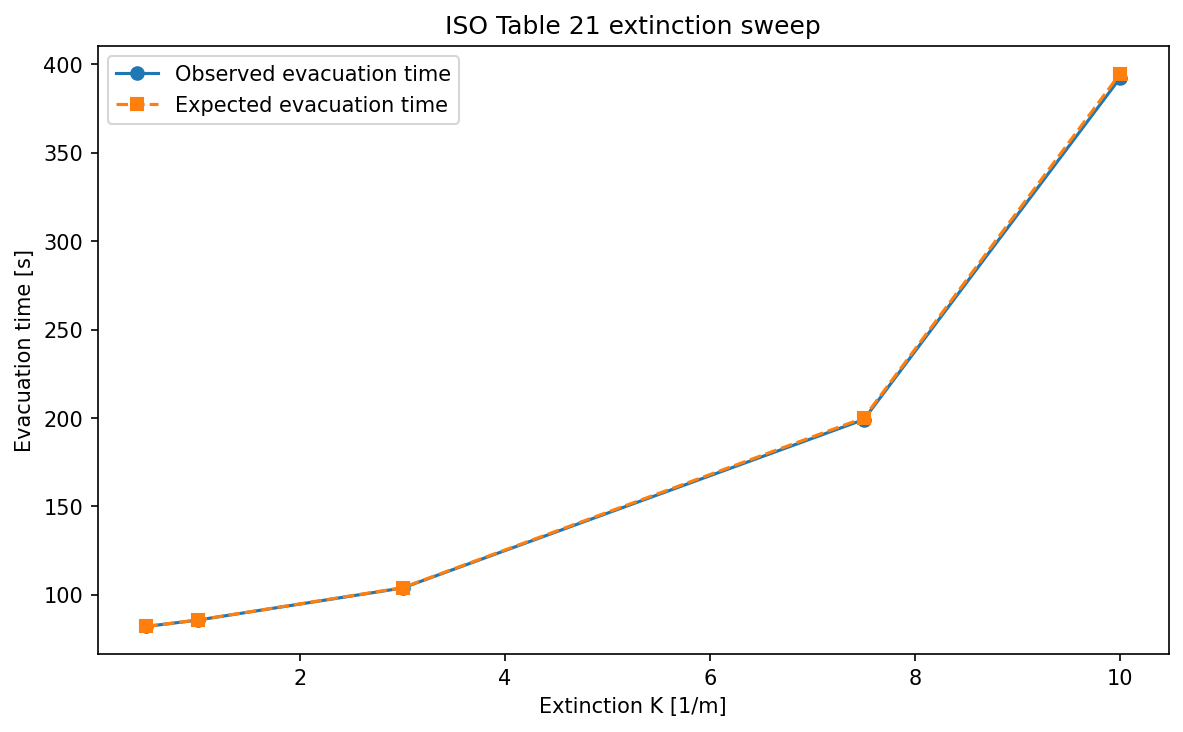
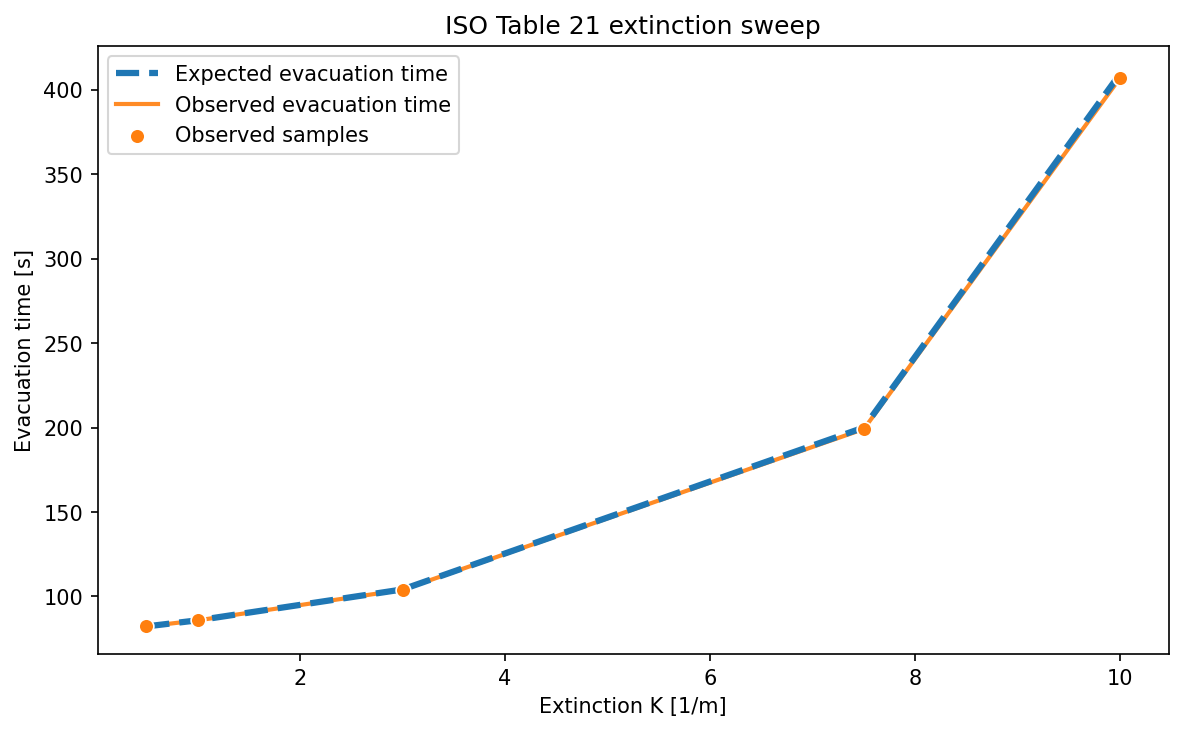
add tab 22 ISO

diff --git a/tests/test_fed.py b/tests/test_fed.py
@@ -4,12 +4,15 @@ from pathlib import Path
 import matplotlib.pyplot as plt
 import numpy as np
 import pytest
-from fdsreader import Simulation
+try:
+    from fdsreader import Simulation
+except ModuleNotFoundError:
+    Simulation = None
 
 from src.core.fed import (
-    DefaultFedModel,
-    DefaultFedInputs,
     DefaultFedConfig,
+    DefaultFedInputs,
+    DefaultFedModel,
     FdsFedField,
     accumulate_default_fed,
     default_fed_rate_per_minute,
@@ -19,6 +22,91 @@ from src.core import load_scenario, run_scenario
 
 
 HASPEL_DIR = Path("fds_data/haspel")
+
+
+CONSTANT_EXPOSURE_CASES = {
+    "co_only": DefaultFedInputs(
+        co_volume_fraction_percent=0.10,
+        co2_volume_fraction_percent=0.0,
+        o2_volume_fraction_percent=20.9,
+    ),
+    "co_with_co2": DefaultFedInputs(
+        co_volume_fraction_percent=0.10,
+        co2_volume_fraction_percent=5.0,
+        o2_volume_fraction_percent=20.9,
+    ),
+    "hypoxia_only": DefaultFedInputs(
+        co_volume_fraction_percent=0.0,
+        co2_volume_fraction_percent=0.0,
+        o2_volume_fraction_percent=12.0,
+    ),
+    "combined": DefaultFedInputs(
+        co_volume_fraction_percent=0.10,
+        co2_volume_fraction_percent=5.0,
+        o2_volume_fraction_percent=12.0,
+    ),
+}
+
+
+def _integrate_constant_exposure(
+    inputs: DefaultFedInputs,
+    *,
+    dt_s: float = 1.0,
+    threshold: float = 1.0,
+    max_time_s: float = 7200.0,
+):
+    """Numerically integrate FED under constant exposure using the runtime update rule."""
+    fed = 0.0
+    time_s = 0.0
+    history = [(time_s, fed)]
+    while fed < threshold and time_s < max_time_s:
+        fed = accumulate_default_fed(inputs, duration_s=dt_s, initial_fed=fed)
+        time_s += dt_s
+        history.append((time_s, fed))
+    return history
+
+
+@pytest.mark.parametrize(
+    ("case_name", "inputs"),
+    list(CONSTANT_EXPOSURE_CASES.items()),
+)
+def test_constant_exposure_step_integration_matches_threshold_time(case_name, inputs):
+    del case_name
+    analytic_time_s = time_to_fed_threshold_s(inputs, threshold=1.0)
+    assert analytic_time_s > 0.0
+    assert math.isfinite(analytic_time_s)
+
+    history = _integrate_constant_exposure(
+        inputs,
+        dt_s=1.0,
+        threshold=1.0,
+        max_time_s=max(7200.0, analytic_time_s + 1.0),
+    )
+    times_s = [time_s for time_s, _ in history]
+    fed_values = [fed for _, fed in history]
+
+    assert fed_values == sorted(fed_values)
+    assert times_s[-1] >= analytic_time_s
+    assert times_s[-1] - analytic_time_s <= 1.0
+    assert fed_values[-2] < 1.0 <= fed_values[-1]
+
+
+@pytest.mark.parametrize(
+    ("case_name", "inputs"),
+    list(CONSTANT_EXPOSURE_CASES.items()),
+)
+def test_constant_exposure_accumulation_matches_closed_form(case_name, inputs):
+    del case_name
+    rate_per_min = default_fed_rate_per_minute(inputs)
+    assert rate_per_min > 0.0
+
+    for duration_s in (1.0, 10.0, 60.0, 300.0):
+        expected = rate_per_min * duration_s / 60.0
+        assert accumulate_default_fed(inputs, duration_s=duration_s) == pytest.approx(
+            expected,
+            rel=1e-12,
+            abs=1e-12,
+        )
 
 
 def test_default_fed_rate_is_zero_in_clear_air():
@@ -67,6 +155,34 @@ def test_fds_evac_guide_stationary_fed_cases_reach_fed_one_consistently(
         )
 
 
+def test_co2_accelerates_co_fed_under_constant_exposure():
+    co_only = CONSTANT_EXPOSURE_CASES["co_only"]
+    co_with_co2 = CONSTANT_EXPOSURE_CASES["co_with_co2"]
+
+    assert default_fed_rate_per_minute(co_with_co2) > default_fed_rate_per_minute(co_only)
+    assert time_to_fed_threshold_s(co_with_co2) < time_to_fed_threshold_s(co_only)
+
+
+def test_combined_constant_exposure_reaches_threshold_fastest():
+    combined = CONSTANT_EXPOSURE_CASES["combined"]
+
+    threshold_times = {
+        name: time_to_fed_threshold_s(inputs)
+        for name, inputs in CONSTANT_EXPOSURE_CASES.items()
+    }
+
+    assert threshold_times["co_with_co2"] < threshold_times["co_only"]
+    assert threshold_times["combined"] < threshold_times["co_only"]
+    assert threshold_times["combined"] < threshold_times["co_with_co2"]
+    assert threshold_times["combined"] < threshold_times["hypoxia_only"]
+    assert default_fed_rate_per_minute(combined) == pytest.approx(
+        max(
+            default_fed_rate_per_minute(inputs)
+            for inputs in CONSTANT_EXPOSURE_CASES.values()
+        )
+    )
+
+
 def _find_haspel_peak_co_location():
     sim = Simulation(str(HASPEL_DIR))
     co_slice = sim.slices.filter_by_quantity("CARBON MONOXIDE VOLUME FRACTION")[0]
@@ -91,6 +207,8 @@ def _find_haspel_peak_co_location():
 
 
 def test_fdsreader_stationary_haspel_sampling_drives_positive_fed():
+    if Simulation is None:
+        pytest.skip("fdsreader is not installed in this environment.")
     if not HASPEL_DIR.exists():
         pytest.skip("Local haspel FDS fixture is not available in this checkout.")
 
@@ -112,6 +230,52 @@ def test_fdsreader_stationary_haspel_sampling_drives_positive_fed():
     assert inputs.o2_volume_fraction_percent > 0.0
     assert rate_per_min > 0.0
     assert cumulative > 0.0
+
+
+class _ConstantInputsFedModel:
+    def __init__(self, inputs: DefaultFedInputs):
+        self.inputs = inputs
+
+    def advance(self, time_s, x, y, *, dt_s, current_fed):
+        del time_s, x, y
+        rate_per_min = default_fed_rate_per_minute(self.inputs)
+        updated = accumulate_default_fed(
+            self.inputs,
+            duration_s=dt_s,
+            initial_fed=current_fed,
+        )
+        return self.inputs, rate_per_min, updated
+
+
+def test_iso_table22_stationary_runtime_matches_analytic_threshold_time():
+    inputs = CONSTANT_EXPOSURE_CASES["combined"]
+    analytic_time_s = time_to_fed_threshold_s(inputs, threshold=1.0)
+
+    scenario = load_scenario("assets/ISO-table22")
+    dist_params = scenario.raw["distributions"]["jps-distributions_0"]["parameters"]
+    dist_params["use_premovement"] = False
+    dist_params["v0"] = 0.0
+    scenario.set_max_time(math.ceil(analytic_time_s) + 1.0)
+
+    result = run_scenario(
+        scenario,
+        seed=420,
+        fed_model=_ConstantInputsFedModel(inputs),
+    )
+
+    try:
+        assert result.fed_history
+        crossing_row = next(
+            row for row in result.fed_history if row["fed_cumulative"] >= 1.0
+        )
+        crossing_time_s = float(crossing_row["time_s"])
+
+        assert abs(crossing_time_s - analytic_time_s) <= result.metrics["dt"]
+        assert result.metrics["fed_max"] >= 1.0
+        assert result.metrics["agents_remaining"] == 1
+        assert result.metrics["all_evacuated"] is False
+    finally:
+        result.cleanup()
 
 
 class _ConstantFedModel:
@@ -174,3 +338,47 @@ def test_fds_evac_guide_stationary_cases_produce_plot(tmp_path):
 
     assert output.exists()
     assert output.stat().st_size > 0
+
+
+
+def test_iso_table22_stationary_runtime_produces_plot(tmp_path: Path):
+    inputs = CONSTANT_EXPOSURE_CASES["combined"]
+    analytic_time_s = time_to_fed_threshold_s(inputs, threshold=1.0)
+
+    scenario = load_scenario("assets/ISO-table22")
+    dist_params = scenario.raw["distributions"]["jps-distributions_0"]["parameters"]
+    dist_params["use_premovement"] = False
+    dist_params["v0"] = 0.0
+    scenario.set_max_time(math.ceil(analytic_time_s) + 1.0)
+
+    result = run_scenario(
+        scenario,
+        seed=420,
+        fed_model=_ConstantInputsFedModel(inputs),
+    )
+
+    try:
+        runtime_times = [row["time_s"] for row in result.fed_history]
+        runtime_fed = [row["fed_cumulative"] for row in result.fed_history]
+        theory_times = np.linspace(0.0, runtime_times[-1], 400)
+        theory_fed = [
+            accumulate_default_fed(inputs, duration_s=float(t)) for t in theory_times
+        ]
+
+        output = tmp_path / "iso-table22-stationary-fed.png"
+        fig, ax = plt.subplots(figsize=(8, 5))
+        ax.plot(theory_times, theory_fed, linewidth=2, label="Analytical FED")
+        ax.step(runtime_times, runtime_fed, where="post", linewidth=2, label="Runtime FED")
+        ax.axhline(1.0, color="black", linestyle=":", linewidth=1.5, label="FED = 1")
+        ax.set_xlabel("Time [s]")
+        ax.set_ylabel("FED Index [-]")
+        ax.set_title("ISO Table 22 stationary FED verification")
+        ax.legend(loc="best")
+        fig.tight_layout()
+        fig.savefig(output, dpi=150, bbox_inches="tight")
+        plt.close(fig)
+
+        assert output.exists()
+        assert output.stat().st_size > 0
+    finally:
+        result.cleanup()

diff --git a/scripts/generate_iso_table21_sweep.py b/scripts/generate_iso_table21_sweep.py
@@ -70,19 +70,38 @@ def main() -> int:
             smoke.cleanup()
             baseline.cleanup()
 
+    x_values = [item["extinction_per_m"] for item in results]
+    observed_times = [item["observed_time_s"] for item in results]
+    expected_times = [item["expected_time_s"] for item in results]
+
     fig, ax = plt.subplots(figsize=(8, 5))
     ax.plot(
-        [item["extinction_per_m"] for item in results],
-        [item["observed_time_s"] for item in results],
-        marker="o",
-        label="Observed evacuation time",
+        x_values,
+        expected_times,
+        color="tab:blue",
+        linestyle="--",
+        linewidth=3,
+        label="Expected evacuation time",
+        zorder=3,
     )
     ax.plot(
-        [item["extinction_per_m"] for item in results],
-        [item["expected_time_s"] for item in results],
-        marker="s",
-        linestyle="--",
-        label="Expected evacuation time",
+        x_values,
+        observed_times,
+        color="tab:orange",
+        linewidth=2,
+        alpha=0.9,
+        label="Observed evacuation time",
+        zorder=2,
+    )
+    ax.scatter(
+        x_values,
+        observed_times,
+        color="tab:orange",
+        edgecolors="white",
+        linewidths=0.8,
+        s=50,
+        label="Observed samples",
+        zorder=4,
     )
     ax.set_xlabel("Extinction K [1/m]")
     ax.set_ylabel("Evacuation time [s]")

diff --git a/README.md b/README.md
@@ -107,6 +107,8 @@ Generate a stable ISO Table 21 sweep artifact under `artifacts/`:
 uv run python scripts/generate_iso_table21_sweep.py
 ```
 
+Figure: ![ISO Table 21 sweep](artifacts/iso-table21-sweep.png)
+
 Generate the FDS+Evac smoke-density vs speed verification plot:
 
 ```bash
@@ -126,6 +128,22 @@ What is implemented now:
 - `O2` hypoxia
 
 This default pathway is read from FDS slice outputs through `fdsreader`.
+
+Verification status on this branch:
+
+- equation-level constant-exposure checks for `CO`, `CO2`, and `O2` are covered in [tests/test_fed.py](tests/test_fed.py)
+- an ISO Table 22 style stationary benchmark is covered with `assets/ISO-table22`, using one fixed occupant in a room and comparing the runtime `FED=1` crossing time against the analytical reference for the implemented default pathway
+- this verification currently covers only the implemented default FED pathway (`CO`, `CO2`, `O2`), not the broader set of toxic/thermal terms mentioned in ISO Table 22
+
+A plot is not required for the Table 22 pass/fail check. The verification criterion is agreement in time to reach `FED = 1`. We still generate a stable artifact because it improves inspection and reporting.
+
+Generate the ISO Table 22 stationary FED verification figure:
+
+```bash
+uv run python scripts/generate_iso_table22_stationary_plot.py
+```
+
+Figure: ![ISO Table 22 stationary FED verification](artifacts/iso-table22-stationary-fed.png)
 
 What is **not** implemented yet from the full Section 3.4 formulation:
 
